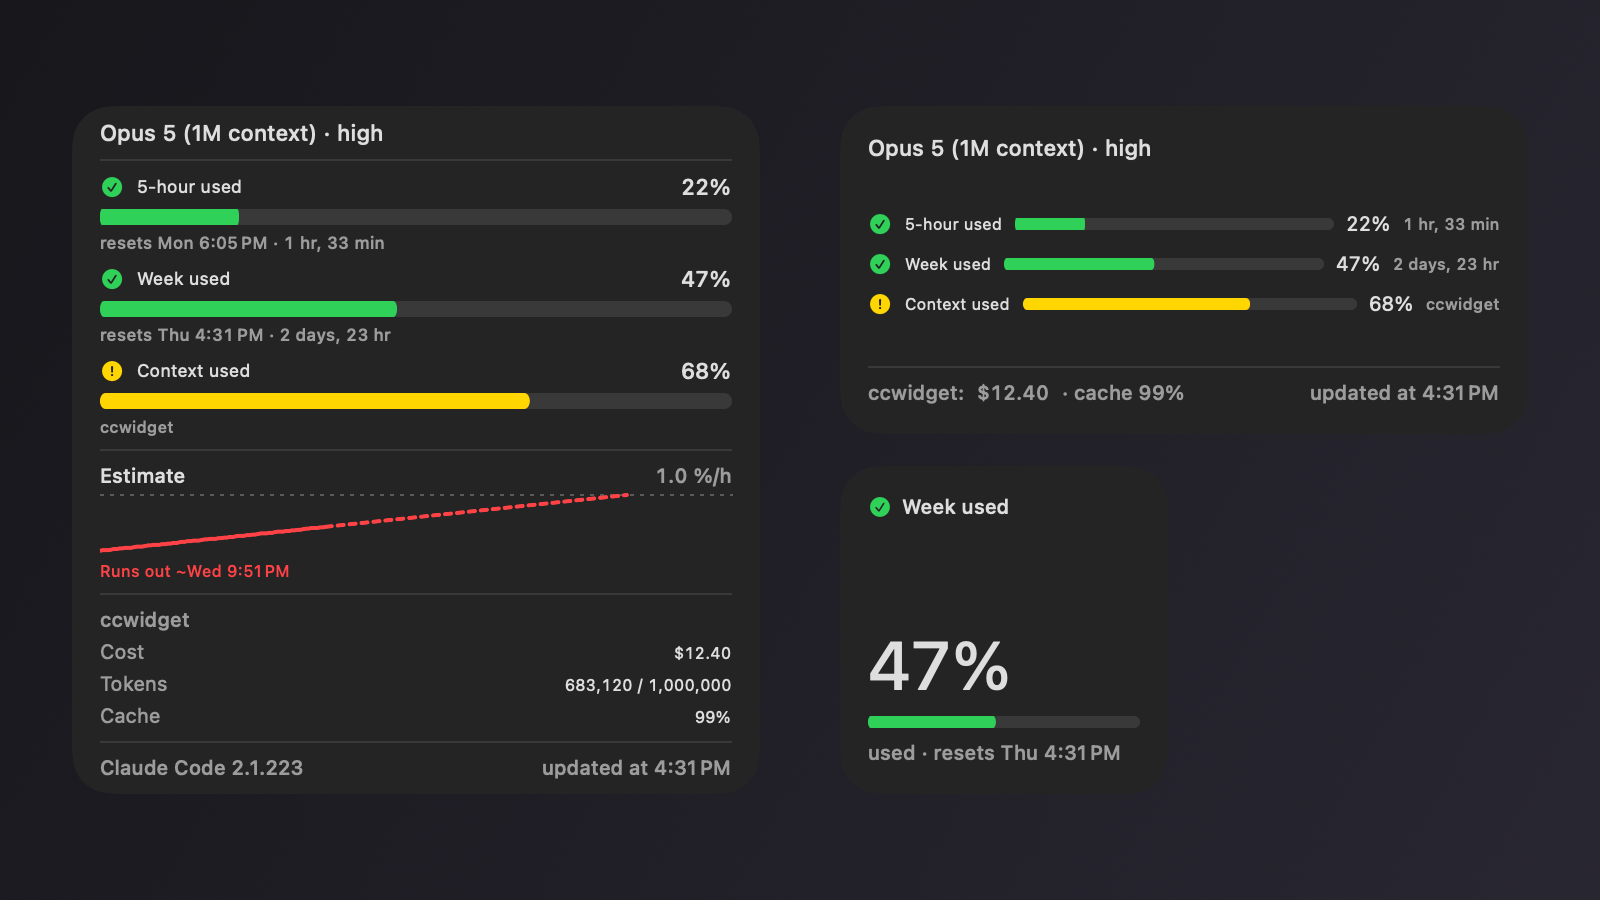
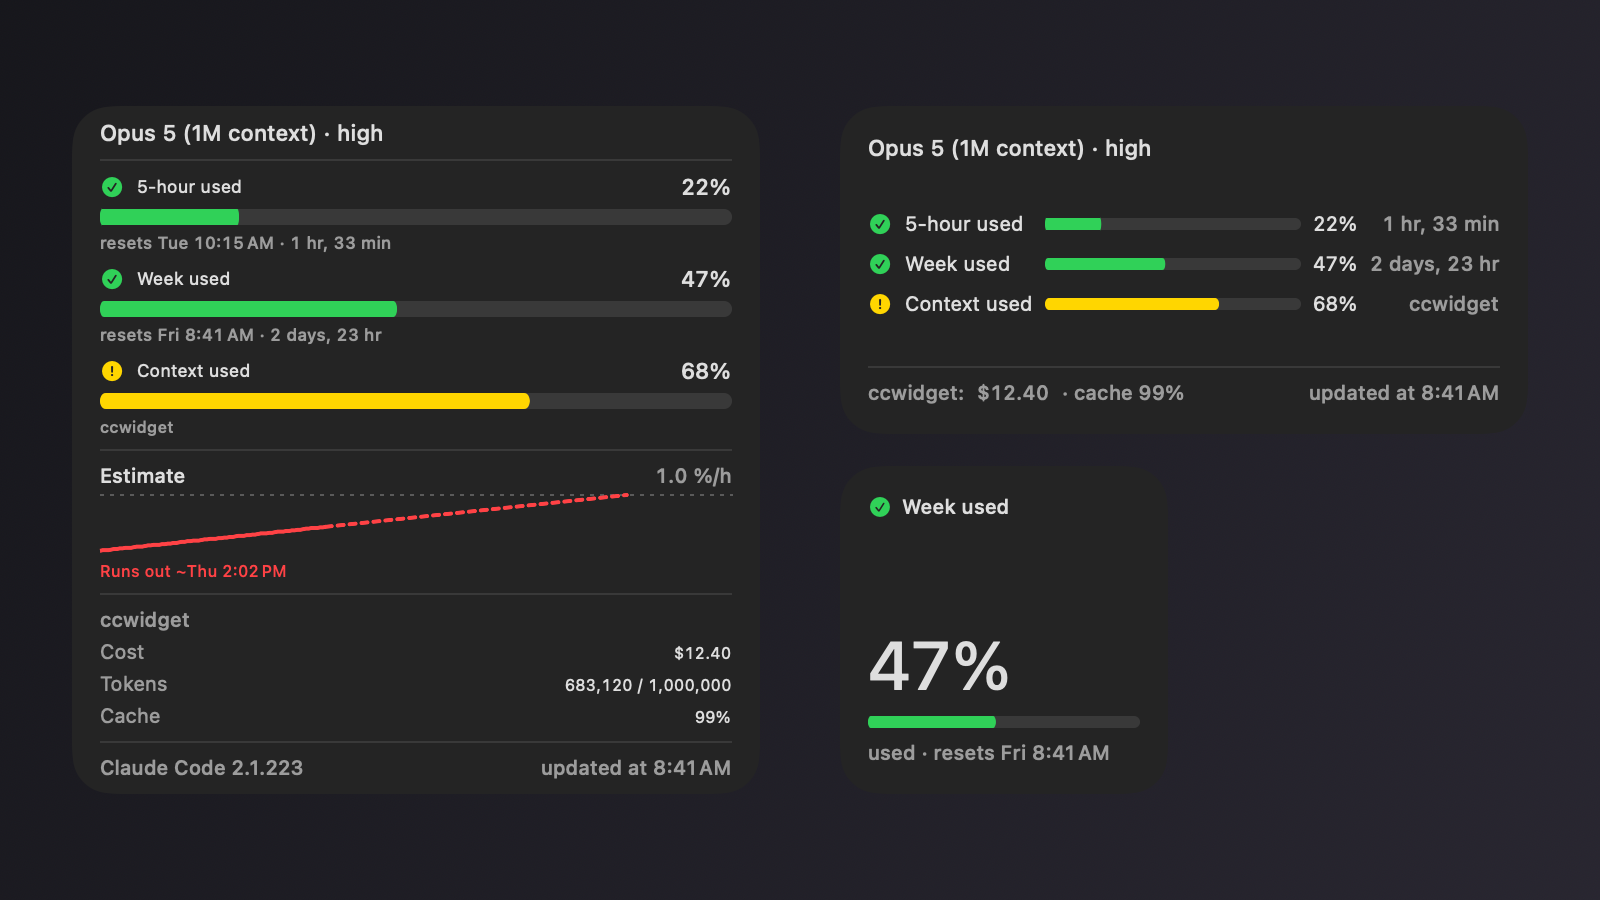
Re-shoot the screenshots for the table layout, and add a 4:3 poster for a portfolio
The README's medium tile still showed three bars starting in three places;
the rows are a table now and the pictures say so. Same command, same
fixture, every image regenerated.

One more shape: Upwork's portfolio shows a 4:3 thumbnail — 1000×750
recommended, 400×300 minimum, per its help centre and a community answer,
recorded in SOURCES.md as read live — and a 16:9 image in a 4:3 slot loses
its edges the way the X post did. The poster's canvas is a parameter now:
800×450 for X, 800×600 for the portfolio, at render scale 2 either way;
the tiles keep their real sizes and only the margins change.

diff --git a/Tools/ccwidget-screenshots/main.swift b/Tools/ccwidget-screenshots/main.swift
@@ -197,8 +197,15 @@ for (suffix, scheme) in [("light", ColorScheme.light), ("dark", ColorScheme.dark
 /// name. The tiles keep their real dimensions from section 9 — nothing here is
 /// resized, because a tile drawn at the wrong size is no longer a picture of
 /// the product.
+/// **A second shape for a second platform.** Upwork's portfolio shows a 4:3
+/// thumbnail — 1000×750 recommended, 400×300 minimum, 4000×4000 maximum, per
+/// its help centre and community answers (`SOURCES.md`, read live, 18 August
+/// 2026) — and a 16:9 image dropped into a 4:3 slot loses its edges the same
+/// way the X post did. So the canvas is a parameter: 800×450 for X, 800×600
+/// for the portfolio, at `renderScale` 2 either way. Same tiles, same
+/// arithmetic; only the margins around them change.
 @MainActor
-func shootPoster(_ name: String, _ scheme: ColorScheme) {
+func shootPoster(_ name: String, _ scheme: ColorScheme, canvas: CGSize = CGSize(width: 800, height: 450)) {
     let backdrop = scheme == .dark
         ? [Color(red: 0.09, green: 0.09, blue: 0.11), Color(red: 0.16, green: 0.15, blue: 0.19)]
         : [Color(red: 0.94, green: 0.94, blue: 0.96), Color(red: 0.86, green: 0.87, blue: 0.91)]
@@ -223,7 +230,7 @@ func shootPoster(_ name: String, _ scheme: ColorScheme) {
             tile(small) { SmallView(entry: entry) }
         }
     }
-    .frame(width: 800, height: 450)
+    .frame(width: canvas.width, height: canvas.height)
     .background(LinearGradient(colors: backdrop, startPoint: .topLeading, endPoint: .bottomTrailing))
     .environment(\.colorScheme, scheme)
     .environment(\.dynamicTypeSize, typeSize)
@@ -238,8 +245,10 @@ func shootPoster(_ name: String, _ scheme: ColorScheme) {
     }
     let url = outDir.appending(path: "\(name).png")
     try! png.write(to: url)
-    print("\(url.lastPathComponent)  1600×900")
+    print("\(url.lastPathComponent)  \(Int(canvas.width * renderScale))×\(Int(canvas.height * renderScale))")
 }
 
 shootPoster("poster-dark", .dark)
 shootPoster("poster-light", .light)
+shootPoster("portfolio-dark", .dark, canvas: CGSize(width: 800, height: 600))
+shootPoster("portfolio-light", .light, canvas: CGSize(width: 800, height: 600))

diff --git a/SOURCES.md b/SOURCES.md
@@ -114,6 +114,7 @@ by the person who read it.
 | Materials (Liquid Glass) | how to do it right | <https://developer.apple.com/design/human-interface-guidelines/materials> | 2026-08-18 | same. The adoption guide (cached) carries the rules this project acts on; the HIG page is the design rationale behind them |
 | Consumer Terms | how it works | <https://www.anthropic.com/legal/consumer-terms> | 2026-08-06 | a legal document; section 14 of `SPEC.md` turns on its clause 3.7, and a stale copy of a legal text is worse than none |
 | Usage policy | how it works | <https://www.anthropic.com/legal/aup> | 2026-08-06 | legal document |
+| Upwork portfolio | how to do it right | <https://support.upwork.com/hc/en-us/articles/360016144974-How-to-enhance-your-freelancer-profile> and <https://community.upwork.com/t5/Freelancers/Portfolio-image-sizes/m-p/1507898> | 2026-08-18 | a platform's own rules for its own form; read for the 4:3 thumbnail (1000×750 recommended, 400×300 minimum, 4000×4000 maximum), the 40-character title and the 300-character description. The help page refuses automated fetching, so the numbers are from the search summary and the community thread and are to be checked against the form itself before publishing |
 | Homebrew | how to do it right | <https://docs.brew.sh/Cask-Cookbook> | 2026-08-06 | the policy of a repository that moves |
 | App extensions | how it works | <https://developer.apple.com/library/archive/documentation/General/Conceptual/ExtensibilityPG/ExtensionCreation.html> | 2026-08-07 | Apple's archive: retired, not updated for macOS 26, and the only place that states an extension's icon must be its containing app's. Cite it as archive, and re-check before relying on anything else from it |
 
